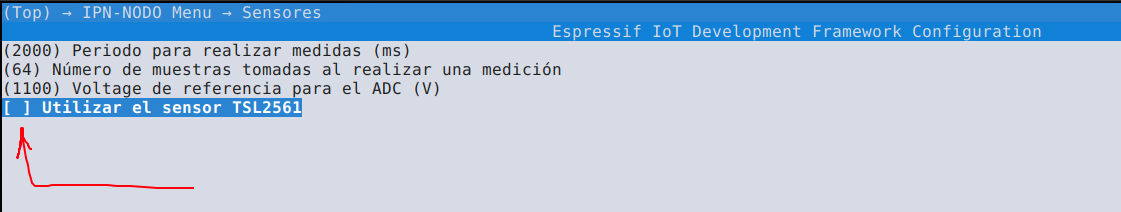
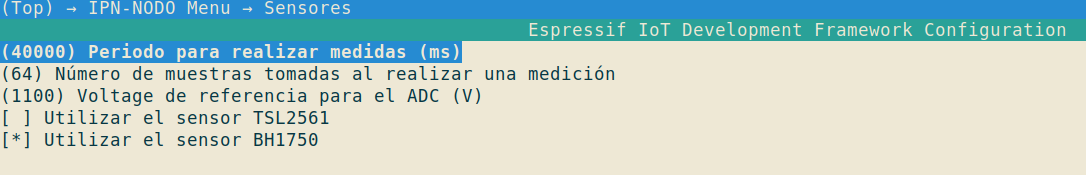
Actualización del README

Changed region(s): [[0.0, 0.0, 1.0, 0.9143]]

diff --git a/README.md b/README.md
@@ -2,7 +2,7 @@
 Firmware del ESP32 para el proyecto TT2020-B031
 
 ## Instalación del kit de desarrollo
-Instalar el kit de desarrollo ESP-IDF según [estas instrucciones](https://docs.espressif.com/projects/esp-idf/en/latest/esp32/get-started/index.html#installation-step-by-step). 
+Instalar el kit de desarrollo ESP-IDF según [estas instrucciones](https://docs.espressif.com/projects/esp-idf/en/latest/esp32/get-started/index.html#installation-step-by-step). **Utilizar la rama estable (stable) al momento de descargar el repositorio**
 Dentro de la carpeta *examples/getting-started* del repositorio de *esp-idf* se pueden encontrar otros ejemplos para
 probar la tarjeta.
 
@@ -31,14 +31,15 @@ para el servicio HTTP y WebSocket. Esto se hace entrando a los submenus de *HTTP
 respectivamente, como se muestra en las imágenes. 
 ![Menú de opciones HTTP](doc/img/menu_http.png)
 ![Menú de opciones WebSockets](doc/img/menu_ws.png)
-## Habilitar/deshabilitar el sensor TSL2561
-En el menu de *Sensores* se puede activar el uso del sensor TSL2561, para medir la luminiscencia  Por default, esta
-opción esta desactivada.
-![Habilitar TSL2561](doc/img/menu_sensores.png)
+## Habilitar o deshabilitar el uso de sensores ópticos
+En el menu de *Sensores* se puede activar el uso del sensor TSL2561 o el sensor BH1750, por default, cualquiera 
+de los dos se encuentra. desactivado. Cabe mencionar que solo una de las dos
+opciones debe de estar seleccionada.
+![Menu de sensores](doc/img/menu_sensores.png)
 
-Nota: En caso de utilizar el TSL2561, se debe de haber clonado previamente el
+Nota: En caso de utilizar cualquier sensor, se debe de clonar previamente el
 repositorio de *esp-idf-lib* ([link](https://github.com/UncleRus/esp-idf-lib)), además de agregar la siguiente 
-linea al archivo *CMakeLists.txt*
+linea al archivo *main/CMakeLists.txt*
 ```
 set(EXTRA_COMPONENT_DIRS <dirección del repositorio>)
 ```
